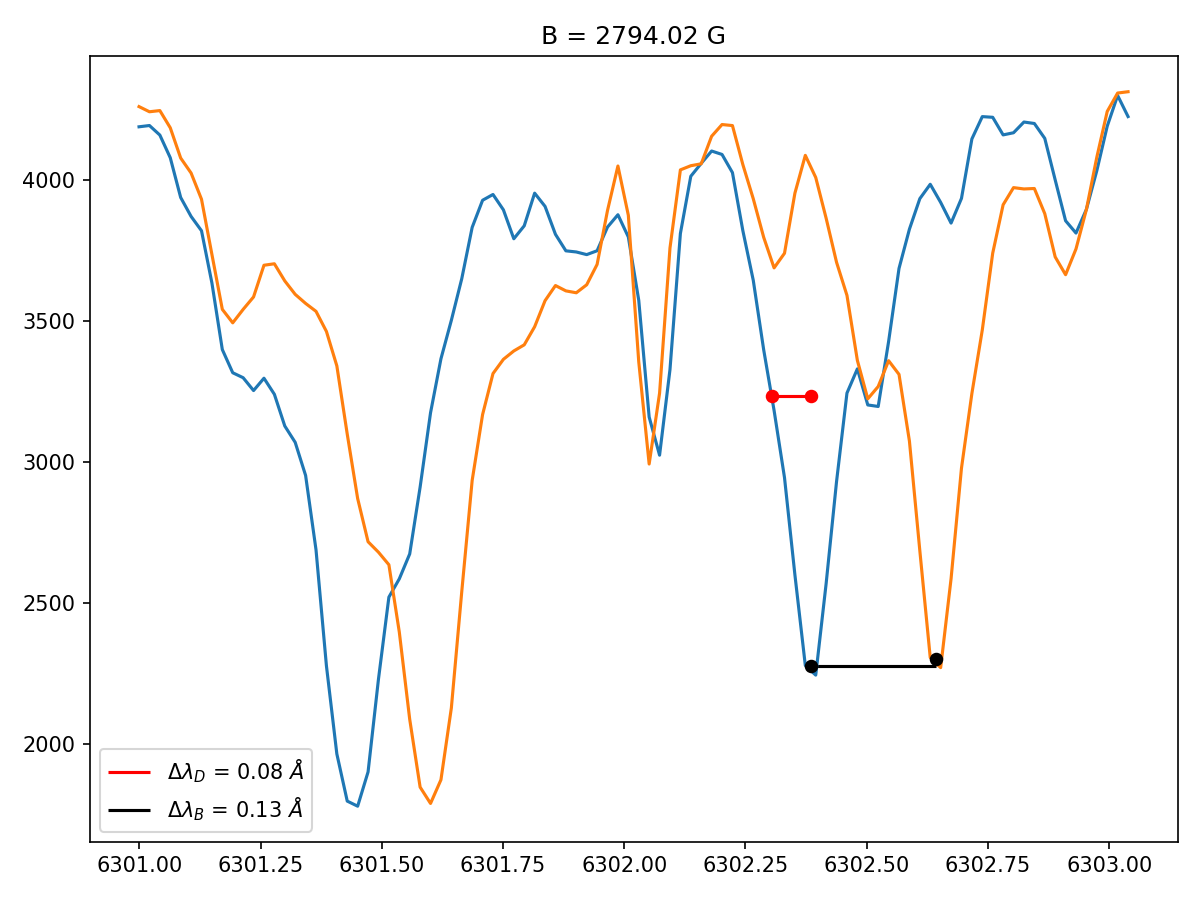
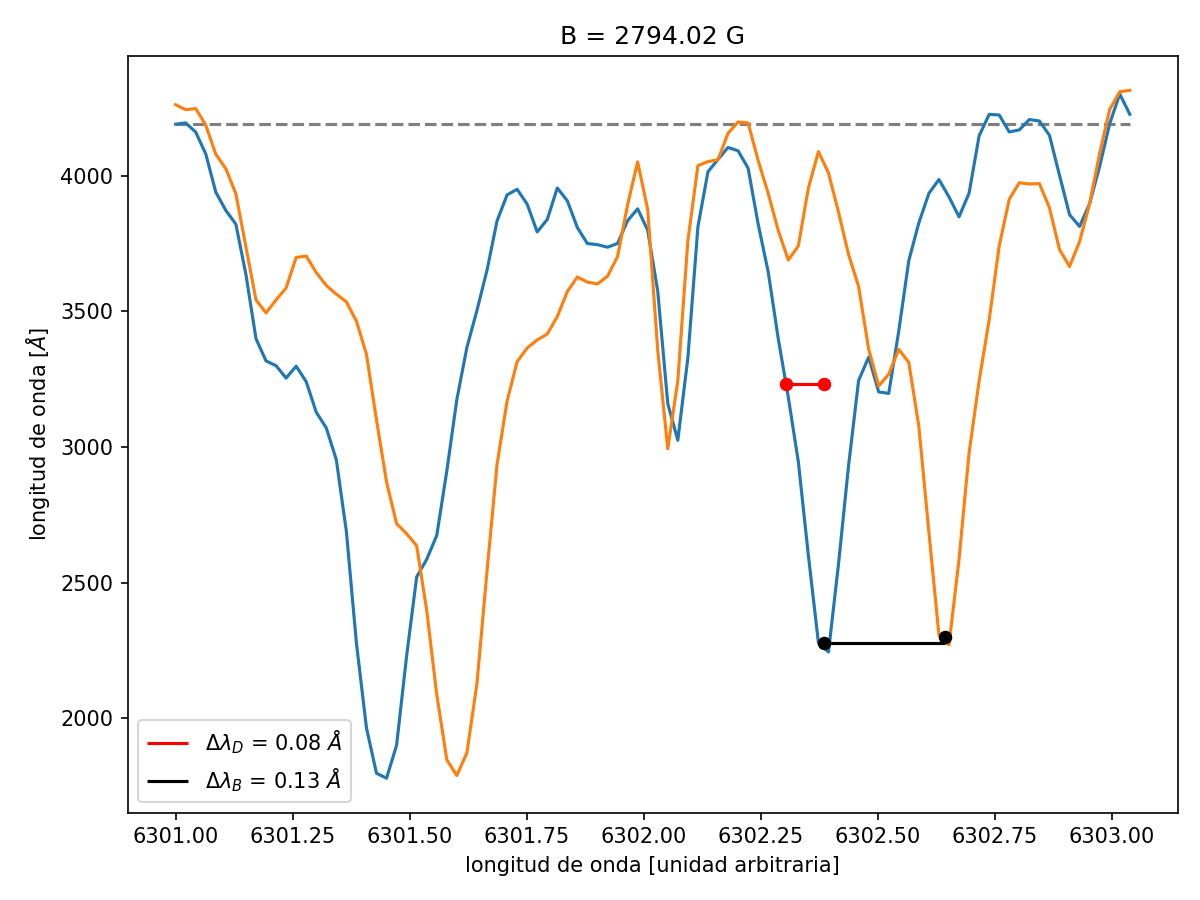
.

diff --git a/func.py b/func.py
@@ -35,7 +35,11 @@ def Duple_array(I,lamda,B):
 def Plot_fits(img,color):
     plt.figure()
     plt.imshow(img,cmap=color)
-    plt.colorbar()
+    plt.xlabel('coordenada X [pix]')
+    plt.ylabel('coordenada Y [pix]')
+    plt.colorbar(label='T [K]')
+    plt.tight_layout()
+    plt.savefig(FIGDIR+'2D_T.png', dpi=150)
     plt.show()
 
 #Plot simple de los espectros
@@ -62,11 +66,14 @@ def print_img(figdir):
     hdu.writeto('new.fits')
     I_img = fits.getdata('new.fits',ext=0)
     os.remove('new.fits')
+
     plt.figure()
-    plt.imshow(I_img, cmap='viridis')
-    plt.colorbar()
+    plt.imshow(I_img, cmap='inferno')
+    plt.xlabel('coordenada X [pix]')
+    plt.ylabel('coordenada Y [pix]')
+    plt.colorbar(label='I [cuentas]')
     plt.tight_layout()
-    plt.savefig(figdir+'Full_Image.png', dpi=150)
+    plt.savefig(FIGDIR+'2D_spot.png', dpi=150)
     plt.show()
 
 #Calculando espectros medios de las intensidades
@@ -80,7 +87,7 @@ def Mean_Spectra_regions(FIGDIR,I_calm,I_dark,plot):
         plt.tight_layout()
         plt.savefig(FIGDIR+'Calm_vs_Dark_t50.png', dpi=150)
         plt.show()
-    return(mean_calm,mean_dark)
+    return(mean_calm, mean_dark)
 
 #Encontrando dos mínimos dada longitud de onda y rango
 def Double_Minimum_Finder(spectra,delta,surr_min1,surr_min2):
@@ -97,7 +104,30 @@ def Minimum_Finder(spectra,delta,surr):
     min_cont = np.linspace(spectra[min_pos-delta,0],spectra[min_pos+delta,0],1000)
     minfit_pos = Find_minmax(min_fit,min_cont)
     minfit_y = Parabola(min_fit,min_cont[minfit_pos])
-    return [min_cont[minfit_pos],minfit_y]
+    return [min_cont[minfit_pos], minfit_y]
+
+#[CON PLOT PARA INFORME] Encontrando mínimo dada longitud de onda y rango
+def Minimum_Finder2(spectra,delta,surr):
+    min_pos = np.argmin(spectra[surr[0]:surr[1],1]) + surr[0]
+    I_min_surr = spectra[min_pos-delta:min_pos+delta,1]
+    x_min_surr = spectra[min_pos-delta:min_pos+delta,0]
+    min_fit = np.polyfit(x_min_surr,I_min_surr,2)
+    min_cont = np.linspace(spectra[min_pos-delta,0],spectra[min_pos+delta,0],1000)
+    minfit_pos = Find_minmax(min_fit,min_cont)
+    minfit_y = Parabola(min_fit, min_cont[minfit_pos])
+
+    plt.figure()
+    plt.plot(x_min_surr,I_min_surr,color='black',ls='--',alpha=0.5,label=r'I ($\lambda$)')
+    plt.plot(min_cont,Parabola(min_fit,min_cont),color='red',label='Ajuste')
+    plt.scatter(min_cont[minfit_pos],minfit_y,color='red',s=30,zorder=2)
+    plt.legend()
+    plt.gca().get_xaxis().get_major_formatter().set_useOffset(False)
+    plt.xlabel('longitud de onda [unidades arbitrarias]')
+    plt.ylabel('I [cuentas]')
+    plt.savefig(FIGDIR+'I_min1_fit.png',dpi=150)
+    plt.show()
+
+    return [min_cont[minfit_pos], minfit_y]
 
 #Encontrando máximo dada longitud de onda y rango
 def Maximum_Finder(spectra,delta,surr):
@@ -127,7 +157,7 @@ def Img_calibration(DATADIR, plot):
 
     #Calibración final
     curve = Calibration_Curve([xcoords_hinode[0], xcoords_hinode[1]],
-                              [xcoords_atlas[0], xcoords_atlas[1]])
+                               [xcoords_atlas[0], xcoords_atlas[1]])
     atlas[:,1] = vfactor*atlas[:,1]
     hinode[:,0] = hinode[:,0]*curve[0]+curve[1]
 
@@ -136,9 +166,11 @@ def Img_calibration(DATADIR, plot):
         plt.figure()
         plt.plot(atlas[:,0],atlas[:,1],label='Atlas data')
         plt.plot(hinode[:,0],hinode[:,1],label='HINODE calibration')
+        plt.xlabel('longitud de onda ['+r'$\AA$'+']')
+        plt.ylabel('I [cuentas]')
         plt.legend()
         plt.tight_layout()
-        plt.savefig(FIGDIR+'Calibration.png', dpi=150)
+        plt.savefig(FIGDIR+'calibrated.png', dpi=150)
         plt.show()
     return hinode[:,0]
 
@@ -158,6 +190,21 @@ def Find_minmax(fit, xcoord):
 def Calibration_Curve(p1,p2):
     return np.polyfit(p1,p2,1)
 
+#[CON PLOT PARA INFORME] Curva (recta) de calibración dados los dos puntos
+def Calibration_Curve2(p1,p2):
+    plt.figure()
+    plt.plot(p1,p2,color='black',ls='--',alpha=0.5)
+    plt.scatter(p1[0],p2[0],color='red',s=15,label='{0:.2f}'.format(p1[0])+', '+'{0:.2f}'.format(p2[0]))
+    plt.scatter(p1[1],p2[1],color='red',s=15,label='{0:.2f}'.format(p1[1])+', '+'{0:.2f}'.format(p2[1]))
+    plt.legend()
+    plt.xlabel('longitud de onda [unidad arbitraria]')
+    plt.ylabel('longitud de onda ['+r'$\AA$'+']')
+    plt.savefig(FIGDIR+'calib_line.png')
+    plt.show()
+    fit = np.polyfit(p1,p2,1)
+    print(fit)
+    return fit
+
 #Calculando y ploteando anchuras Zeeman y Doppler en I+V
 def Widenings(I,IplusV,IminV,plot):
     min1 = Minimum_Finder(I,4,[20,30])
@@ -172,26 +219,29 @@ def Widenings(I,IplusV,IminV,plot):
     xizq = Parabola(fit,hmin)
     lam_D = min_plus[0]-xizq
     lam_B = np.absolute(min_min[0]-min_plus[0])/2
-
     B = lam_B/(C*2.5*(min1[0]**2))
 
     if(plot=='yes'):
         plt.figure(figsize=(8,6))
-        plt.plot(IplusV[:,0],IplusV[:,1])
-        plt.plot(IminV[:,0],IminV[:,1])
+        plt.plot(IplusV[:,0],IplusV[:,1], label='I + V')
+        plt.plot(IminV[:,0],IminV[:,1], label='I - V')
         plt.scatter(xizq,hmin,color='red',s=30,marker='o',zorder=3)
         plt.scatter(min_plus[0],hmin,color='red',s=30,marker='o',zorder=3)
+        plt.hlines(IplusV_cont,xmin=IminV[0,0],xmax=IminV[-1,0],color='black',ls='--',alpha=0.5,
+                   lw=2,label= '{0:.2f}'.format(IplusV_cont))
         plt.hlines(hmin,xmin=xizq,xmax=min_plus[0],color='red', \
                   label=r'$\Delta \lambda_D$ = '+'{0:.2f}'.format(lam_D)+r' $\AA$')
         plt.scatter(min_min[0],min_min[1],color='black',s=30,marker='o',zorder=3)
         plt.scatter(min_plus[0],min_plus[1],color='black',s=30,marker='o',zorder=3)
+        plt.vlines(min_plus[0],ymin=min_plus[1],ymax=IplusV_cont,color='black',ls='--',alpha=0.5)
         plt.hlines(min_plus[1],xmin=min_plus[0],xmax=min_min[0],color='black', \
                   label=r'$\Delta \lambda_B$ = '+'{0:.2f}'.format(lam_B)+r' $\AA$')
-
+        plt.ylabel('I[cuentas]')
+        plt.xlabel('longitud de onda ['+r'$\AA$'+']')
         plt.title('B = '+'{0:.2f}'.format(B)+' G')
-        plt.legend(loc='best')
+        plt.legend(loc='lower center')
         plt.tight_layout()
-        plt.savefig(FIGDIR+'Widenings.png', dpi=150)
+        plt.savefig(FIGDIR+'widenings.png', dpi=150)
         plt.show()
 
     return lam_B, B, min1
@@ -207,7 +257,7 @@ def Gamma(Q,U,V,plot):
     os.remove('gamma.fits')
 
     if(plot=='yes'):
-        Plot_fits(gamma,'turbo')
+        Plot_fits(gamma,'plasma')
 
     return gamma
 
@@ -239,7 +289,7 @@ def T(I,Icont,lamda,plot):
     T = 1/(1/Tm-(((k*lamda*1e-10)/(h*c))*np.log(I/Icont)))
     
     if(plot=='yes'):
-        Plot_fits(T,'turbo')
+        Plot_fits(T,'plasma')
 
     return T
 

diff --git a/main.py b/main.py
@@ -6,10 +6,10 @@ FIGDIR = 'figures/'
 DATADIR = '/home/andy/Downloads/prac2solar/data/'
 
 
-
     #2# CALIBRACION:
 #print_img(DATADIR+'Stokes_sunspot_HINODE.fits')
-lamda = Img_calibration(DATADIR, 'yes')
+lamda = Img_calibration(DATADIR, 'no')
+
 
     #3# MEDIDA DEL CAMPO MAGNÉTICO:
         #3.1# Campo fuerte:
@@ -28,10 +28,10 @@ U = data[2,:,:,67]
 V = data[3,:,:,67]
 
         #calculando phi y ploteando
-phi = Phi(Q,U,V,'yes')
+#phi = Phi(Q,U,V,'yes')
 
         #calculando gamma y ploteando
-gamma = Gamma(Q,U,V,'yes')
+#gamma = Gamma(Q,U,V,'yes')
 
         #3.2#Campo débil:
         #calculando B_long
@@ -63,7 +63,9 @@ Plot_fits(delta,'turbo')
 v = v*1e-3
 plt.figure()
 plt.imshow(v,cmap='bwr',vmin=-2,vmax=1.5)
-plt.colorbar()
+plt.xlabel('coordenada X [pix]')
+plt.ylabel('coordenada Y [pix]')
+plt.colorbar(label='v [km/s]')
 plt.tight_layout()
-plt.savefig(FIGDIR+'Full_Image.png', dpi=150)
+plt.savefig(FIGDIR+'2D_v".png', dpi=150)
 plt.show()

diff --git a/plotting.py b/plotting.py
@@ -1,0 +1,22 @@
+##IMPORTANDO PAQUETES Y VARIABLES GENERALES##
+from func import *
+import warnings
+warnings.filterwarnings("ignore")
+FIGDIR = 'figures/'
+DATADIR = '/home/andy/Downloads/prac2solar/data/'
+
+data = Import_data(DATADIR+'Stokes_sunspot_HINODE.fits')
+lamda = Img_calibration(DATADIR, 'no')
+Iw = Duple_array(data[0,:,:,:],lamda,'weak')
+Is = Duple_array(data[0,:,:,:],lamda,'strong')
+factor = Iw[0,1]/Is[0,1]
+print(factor)
+plt.figure()
+plt.plot(Iw[:,0],Iw[:,1], label = 'Sol en calma')
+plt.plot(Is[:,0],factor*Is[:,1], label = 'Umbra')
+plt.xlabel('longitud de onda ['+r'$\AA$'+']')
+plt.ylabel('I [cuentas]')
+plt.legend()
+plt.tight_layout()
+plt.savefig(FIGDIR+'Iw_vs_Is.png', dpi=150)
+plt.show()
